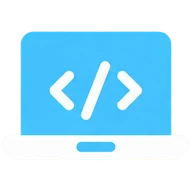
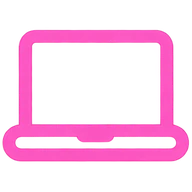
アイコン12個を、丸い太線のラインアイコン（色つきの線）に（ChatGPT で制作・5案から決定）。封筒はピンク、フラスコは濃い紫にして白や金の上でも見えるように。実験のルールのカードは暗い半透明に

diff --git a/index.html b/index.html
@@ -135,8 +135,8 @@
 
   /* ---------- 実験のルール（シール） ---------- */
   .rules{display:grid; grid-template-columns:repeat(3,1fr); gap:8px; margin:0; padding:0; list-style:none}
-  .rules li{background:#f4f1ff; color:var(--ink); border-radius:16px; padding:12px 6px 10px; text-align:center; font-size:12px; font-weight:800; line-height:1.4;
-            box-shadow:0 4px 0 rgba(0,0,0,.25)}
+  .rules li{background:rgba(255,255,255,.08); border:1px solid rgba(255,255,255,.12); color:#fff; border-radius:16px; padding:12px 6px 10px; text-align:center; font-size:12px; font-weight:800; line-height:1.4;
+            box-shadow:none}
   .rules li:nth-child(1){rotate:-2deg} .rules li:nth-child(3){rotate:2deg}
   .rules .ic{display:block; width:52px; height:52px; margin:-2px auto 4px}
 
@@ -180,11 +180,11 @@
 
   <section class="hero">
     <i class="deco d1"></i><i class="deco d2"></i><i class="deco d3"></i><i class="deco d4"></i>
-    <span class="lab"><img class="x" src="assets/ui/icon_flask.webp?v=2" alt="" width="96" height="96">実験中</span>
+    <span class="lab"><img class="x" src="assets/ui/icon_flask.webp?v=3" alt="" width="96" height="96">実験中</span>
     <h1><span class="ai">AI</span>ゲーム<br>実験室</h1>
     <p class="catch">プログラムも絵も音も<br><b>ぜんぶAI</b>が作ったゲーム</p>
     <!-- プレイ回数（ranking-gas.js の ?view=plays。全5ゲームの合計。取れなければ出さない） -->
-    <span class="count" id="stats" hidden><img class="ico" src="assets/ui/icon_controller.webp?v=2" alt="" width="96" height="96">みんなで<b id="stAll">0</b>回あそんだ！</span>
+    <span class="count" id="stats" hidden><img class="ico" src="assets/ui/icon_controller.webp?v=3" alt="" width="96" height="96">みんなで<b id="stAll">0</b>回あそんだ！</span>
   </section>
 
   <h2 id="games">あそぶゲームをえらぶ</h2>
@@ -192,7 +192,7 @@
     <a class="tile big t-geigeki" href="geigeki_road.html">
       <img src="assets/screens/geigeki_3.jpg" width="540" height="1052" alt="迎撃ロードの画面。数十万の敵軍と白兵戦になり爆発が起きている">
       <span class="ribbon">おすすめ</span>
-      <span class="plays" data-game="geigeki" hidden><img class="x" src="assets/ui/icon_controller.webp?v=2" alt="" width="96" height="96"><b></b>回</span>
+      <span class="plays" data-game="geigeki" hidden><img class="x" src="assets/ui/icon_controller.webp?v=3" alt="" width="96" height="96"><b></b>回</span>
       <div class="body">
         <span class="genre">撃って守る防衛戦</span>
         <h3>迎撃ロード</h3>
@@ -202,22 +202,22 @@
     </a>
     <a class="tile t-million" href="million_march.html">
       <img src="assets/screens/million_4.jpg" width="540" height="1052" alt="Million March の画面。数十万の金色の鎧の大軍が行進する" loading="lazy">
-      <span class="plays" data-game="million" hidden><img class="x" src="assets/ui/icon_controller.webp?v=2" alt="" width="96" height="96"><b></b>回</span>
+      <span class="plays" data-game="million" hidden><img class="x" src="assets/ui/icon_controller.webp?v=3" alt="" width="96" height="96"><b></b>回</span>
       <div class="body"><span class="genre">めざせ100万の大軍</span><h3>Million March</h3></div>
     </a>
     <a class="tile t-power" href="../power-tower/">
       <img src="assets/screens/power_1.jpg" width="540" height="1052" alt="パワータワーの画面。砂浜に並ぶ塔の上に檻に入ったお姫様がいる" loading="lazy">
-      <span class="plays" data-game="power" hidden><img class="x" src="assets/ui/icon_controller.webp?v=2" alt="" width="96" height="96"><b></b>回</span>
+      <span class="plays" data-game="power" hidden><img class="x" src="assets/ui/icon_controller.webp?v=3" alt="" width="96" height="96"><b></b>回</span>
       <div class="body"><span class="genre">吸収して塔を登る</span><h3>パワータワー</h3></div>
     </a>
     <a class="tile t-snow" href="../snow-grill/">
       <img src="assets/screens/snow_3.jpg" width="540" height="1052" alt="スノーグリルの画面。バリケードの向こうに雪の巨人と白クマの群れ" loading="lazy">
-      <span class="plays" data-game="snow" hidden><img class="x" src="assets/ui/icon_controller.webp?v=2" alt="" width="96" height="96"><b></b>回</span>
+      <span class="plays" data-game="snow" hidden><img class="x" src="assets/ui/icon_controller.webp?v=3" alt="" width="96" height="96"><b></b>回</span>
       <div class="body"><span class="genre">狩って焼いて配る</span><h3>スノーグリル</h3></div>
     </a>
     <a class="tile t-tetris" href="../tetris-puzzle/">
       <img src="assets/screens/tetris_3.jpg" width="540" height="1052" alt="テトリスパズルの画面。列がそろって消え、コンボの文字が出ている" loading="lazy">
-      <span class="plays" data-game="tetris" hidden><img class="x" src="assets/ui/icon_controller.webp?v=2" alt="" width="96" height="96"><b></b>回</span>
+      <span class="plays" data-game="tetris" hidden><img class="x" src="assets/ui/icon_controller.webp?v=3" alt="" width="96" height="96"><b></b>回</span>
       <div class="body"><span class="genre">並べて消すパズル</span><h3>テトリスパズル</h3></div>
     </a>
   </div>
@@ -229,43 +229,43 @@
     <button role="tab" aria-selected="false" data-i="2">テトリスパズル</button>
   </div>
   <div class="gpt">
-    <div class="gpt-head"><img class="x" src="assets/ui/icon_robot.webp?v=2" alt="" width="96" height="96">ゲーム作りAI<small>実際に頼んだ言葉です</small></div>
+    <div class="gpt-head"><img class="x" src="assets/ui/icon_robot.webp?v=3" alt="" width="96" height="96">ゲーム作りAI<small>実際に頼んだ言葉です</small></div>
     <div class="gpt-log" data-i="0">
       <div class="u">武器は銃とかマシンガンとか砲丸とか、そういう感じの方がいいんじゃないかな</div>
-      <div class="a"><img class="x" src="assets/ui/icon_robot.webp?v=2" alt="" width="96" height="96"><div class="ans"><span class="done">迎撃ロードに反映しました</span><p>投石・弓・火縄銃…マシンガン・大砲・ロケット砲まで、12段階の武器にしました。ステージが進むほど強い武器で戦えます。</p><img class="shot" src="assets/screens/geigeki_2.jpg" width="540" height="1052" alt="迎撃ロードの画面。青い軍勢がショットガンで敵を撃つ" loading="lazy"></div></div>
+      <div class="a"><img class="x" src="assets/ui/icon_robot.webp?v=3" alt="" width="96" height="96"><div class="ans"><span class="done">迎撃ロードに反映しました</span><p>投石・弓・火縄銃…マシンガン・大砲・ロケット砲まで、12段階の武器にしました。ステージが進むほど強い武器で戦えます。</p><img class="shot" src="assets/screens/geigeki_2.jpg" width="540" height="1052" alt="迎撃ロードの画面。青い軍勢がショットガンで敵を撃つ" loading="lazy"></div></div>
     </div>
     <div class="gpt-log" data-i="1" hidden>
       <div class="u">白クマがちゃんと危険な存在であってほしい</div>
-      <div class="a"><img class="x" src="assets/ui/icon_robot.webp?v=2" alt="" width="96" height="96"><div class="ans"><span class="done">スノーグリルに反映しました</span><p>白クマが攻撃する前に、足元へ赤い円が出るようにしました。さらに3ステージに1回、雪の巨人との決戦を足しています。</p><img class="shot" src="assets/screens/snow_1.jpg" width="540" height="1052" alt="スノーグリルの画面。白クマの足元に攻撃の前ぶれの赤い円" loading="lazy"></div></div>
+      <div class="a"><img class="x" src="assets/ui/icon_robot.webp?v=3" alt="" width="96" height="96"><div class="ans"><span class="done">スノーグリルに反映しました</span><p>白クマが攻撃する前に、足元へ赤い円が出るようにしました。さらに3ステージに1回、雪の巨人との決戦を足しています。</p><img class="shot" src="assets/screens/snow_1.jpg" width="540" height="1052" alt="スノーグリルの画面。白クマの足元に攻撃の前ぶれの赤い円" loading="lazy"></div></div>
     </div>
     <div class="gpt-log" data-i="2" hidden>
       <div class="u">ピンクにして。3分モード作って</div>
-      <div class="a"><img class="x" src="assets/ui/icon_robot.webp?v=2" alt="" width="96" height="96"><div class="ans"><span class="done">テトリスパズルに反映しました</span><p>パステルカラーのかわいい画面にして、3分間でどこまで消せるかのタイムアタックを作りました。</p><img class="shot" src="assets/screens/tetris_1.jpg" width="540" height="1052" alt="テトリスパズルのモード選択。パステルカラーの画面にタイムアタックが並ぶ" loading="lazy"></div></div>
+      <div class="a"><img class="x" src="assets/ui/icon_robot.webp?v=3" alt="" width="96" height="96"><div class="ans"><span class="done">テトリスパズルに反映しました</span><p>パステルカラーのかわいい画面にして、3分間でどこまで消せるかのタイムアタックを作りました。</p><img class="shot" src="assets/screens/tetris_1.jpg" width="540" height="1052" alt="テトリスパズルのモード選択。パステルカラーの画面にタイムアタックが並ぶ" loading="lazy"></div></div>
     </div>
     <div class="gpt-input" aria-hidden="true">AIに注文を入力…<i></i></div>
   </div>
 
   <h2>実験のルール</h2>
   <ul class="rules">
-    <li><img class="ic" src="assets/ui/icon_nocode.webp?v=2" alt="" width="96" height="96">人はコードを<br>書かない</li>
-    <li><img class="ic" src="assets/ui/icon_bubble.webp?v=2" alt="" width="96" height="96">注文は<br>言葉だけ</li>
-    <li><img class="ic" src="assets/ui/icon_loop.webp?v=2" alt="" width="96" height="96">遊んで直して<br>また遊ぶ</li>
+    <li><img class="ic" src="assets/ui/icon_nocode.webp?v=3" alt="" width="96" height="96">人はコードを<br>書かない</li>
+    <li><img class="ic" src="assets/ui/icon_bubble.webp?v=3" alt="" width="96" height="96">注文は<br>言葉だけ</li>
+    <li><img class="ic" src="assets/ui/icon_loop.webp?v=3" alt="" width="96" height="96">遊んで直して<br>また遊ぶ</li>
   </ul>
 
   <h2>くわしく</h2>
   <div class="roles">
-    <div class="role"><img class="ic" src="assets/ui/icon_laptop.webp?v=2" alt="" width="96" height="96"><b>プログラム</b><span>ゲームの動き・当たり判定・演出まで、全部AIが書いています。</span></div>
-    <div class="role"><img class="ic" src="assets/ui/icon_palette.webp?v=2" alt="" width="96" height="96"><b>絵</b><span>兵士・巨人・白クマ・背景は、画像生成AIで描きました。</span></div>
-    <div class="role"><img class="ic" src="assets/ui/icon_music.webp?v=2" alt="" width="96" height="96"><b>音楽・効果音</b><span>BGMは音楽生成AI（Suno）、効果音はAIがプログラムで作っています。</span></div>
-    <div class="role"><img class="ic" src="assets/ui/icon_sliders.webp?v=2" alt="" width="96" height="96"><b>難しさの調整</b><span>AIが自分で何百回も自動プレイして、手応えを合わせました。</span></div>
+    <div class="role"><img class="ic" src="assets/ui/icon_laptop.webp?v=3" alt="" width="96" height="96"><b>プログラム</b><span>ゲームの動き・当たり判定・演出まで、全部AIが書いています。</span></div>
+    <div class="role"><img class="ic" src="assets/ui/icon_palette.webp?v=3" alt="" width="96" height="96"><b>絵</b><span>兵士・巨人・白クマ・背景は、画像生成AIで描きました。</span></div>
+    <div class="role"><img class="ic" src="assets/ui/icon_music.webp?v=3" alt="" width="96" height="96"><b>音楽・効果音</b><span>BGMは音楽生成AI（Suno）、効果音はAIがプログラムで作っています。</span></div>
+    <div class="role"><img class="ic" src="assets/ui/icon_sliders.webp?v=3" alt="" width="96" height="96"><b>難しさの調整</b><span>AIが自分で何百回も自動プレイして、手応えを合わせました。</span></div>
   </div>
   <div class="tips">
-    <img class="ic" src="assets/ui/icon_phone.webp?v=2" alt="" width="96" height="96">
+    <img class="ic" src="assets/ui/icon_phone.webp?v=3" alt="" width="96" height="96">
     <p><b>スマホで遊ぶのがおすすめです。</b>登録なし・無料で、そのまま遊べます。</p>
     <p>ホーム画面に追加すると、アプリのように全画面で遊べます（iPhone は Safari の共有ボタン →「ホーム画面に追加」）。</p>
     <p>遊んだら、感想や「ここが変だった」をぜひ教えてください。それがそのまま次の注文になります。</p>
   </div>
-  <a class="fb" href="feedback.html?game=lab"><img class="x" src="assets/ui/icon_letter.webp?v=2" alt="" width="96" height="96">感想・改善案を送る</a>
+  <a class="fb" href="feedback.html?game=lab"><img class="x" src="assets/ui/icon_letter.webp?v=3" alt="" width="96" height="96">感想・改善案を送る</a>
 
   <footer>
     <a class="footer-brand" href="https://machino-ai.jp/"><img src="assets/machino-logo.png" alt="" width="40" height="40"><span>まちのAI屋さん<small>長崎のAIシステム開発・AI相談</small></span></a>

diff --git a/feedback.html b/feedback.html
@@ -95,7 +95,7 @@
 <div class="sky" aria-hidden="true"></div>
 <main>
   <div class="head">
-    <img src="assets/ui/icon_letter.webp?v=2" alt="" width="96" height="96">
+    <img src="assets/ui/icon_letter.webp?v=3" alt="" width="96" height="96">
     <h1>感想を送る</h1>
     <p class="lede">ひとことでも、星だけでもOK。<br>もらった声で、AIがゲームを直していきます。</p>
   </div>
@@ -120,7 +120,7 @@
   </form>
 
   <div class="card done" id="done" hidden>
-    <img src="assets/ui/icon_robot.webp?v=2" alt="" width="96" height="96">
+    <img src="assets/ui/icon_robot.webp?v=3" alt="" width="96" height="96">
     <h2>届きました！</h2>
     <p>ありがとうございます。<br>次のアップデートで直していきます。</p>
     <a class="btn" id="btnBack" href="./">ゲームにもどる</a>

diff --git a/CLAUDE.md b/CLAUDE.md
@@ -59,7 +59,7 @@ python -m http.server 8797
 - **迎撃ロードの難しさ**：敵の数・門や台座の固さ・増える板の大きさは、自分の兵力ではなく**その面の標準**（`refArmy`＝兵力の目安の曲線 `armyTarget`、`refPower`＝その面の標準の武器）で決める。だから兵が多いほど楽で、苦しいときは前の面で増員してから挑める。赤軍を受け止めずに通したときの被害は `PASS_LOSS`（敵の戦力の52%）。自動プレイでは、赤軍の3割をよけてしまう人でも「失敗したら前の面を2回遊び直す」で全10面に届く
 - **Million March の味方の見た目**：兵が増えるとまとめて描く段が上がり、見た目が進化する（隊長→重装騎士→騎馬隊→聖騎士→巨大騎士→黄金の巨神。`ALLY_RANK_SPRITE`）。絵は `assets/evolve/`（ChatGPTで制作）。大軍で1色の塊に見えないよう、段階ごとに配色を変えた絵（騎馬=くすんだ緑、聖騎士=真紅、巨神=紫）に細い縁取りを焼き込んである。色のオーラは露骨に見えたのでやめた。描くときは上位の兵に1つ下・2つ下の兵を混ぜ（`composition`）、最前列は一番上の段の兵、その後ろは段ごとに均等に散らす（`placeCrowd`）
 - **BGM**：`Snd` の中の `SONGS` に景色ごとの曲。ステージ開始時に `Snd.song(景色の番号, 偶数面か)`、ボーナスは `Snd.song("bonus")`。本物の曲は Suno で作った `assets/bgm/<曲名>.mp3`（valley / desert / snow / volcano / sky / bonus、2つのゲームで共通）。**面ごとに曲が変わる**：奇数面は `<曲名>.mp3`、偶数面は同じ景色の2曲目 `<曲名>2.mp3`（無ければ1曲目を流す）。WebAudio で読み込んでループ再生し、読み込めるまでと読めなかったときは `SONGS` のピコピコを鳴らす。曲の差しかえは `python tools/bgm_loop.py <元.mp3> assets/bgm/<曲名>.mp3 <BPM>`（静かな頭を飛ばし、4小節単位で75秒前後に切って、切れ目なくループするよう加工）
-- **絵文字は使わない**（安っぽく見えるため。2026-09-27 オーナー指示）。アイコンは ChatGPT のブラウザ操作で作った `assets/ui/icon_*.webp`（フラスコ・コントローラー・AIロボット など12個）。つやや立体感のあるゲーム風はチープに見えたので、**縁取り・影・光沢なしのフラットな絵**にしている。絵を差しかえたら参照の `?v=` を上げる。足りないときも同じ作り方で足す
+- **絵文字は使わない**（安っぽく見えるため。2026-09-27 オーナー指示）。アイコンは ChatGPT のブラウザ操作で作った `assets/ui/icon_*.webp`（フラスコ・コントローラー・AIロボット など12個）。つやのあるゲーム風・フラット・クレイ風・カラータイルと比べて、**丸い太線だけのラインアイコン（色つきの線）**に決めた（2026-09-27）。暗い背景に置く前提。白や金の上に置くものは線の色を変えてある（封筒=ピンク、フラスコ=濃い紫）。絵を差しかえたら参照の `?v=` を上げる。足りないときも同じ作り方で足す
 - ファイル名・フォルダ名に空白を入れない（区切りは `_`）
 
 ## ランキング
